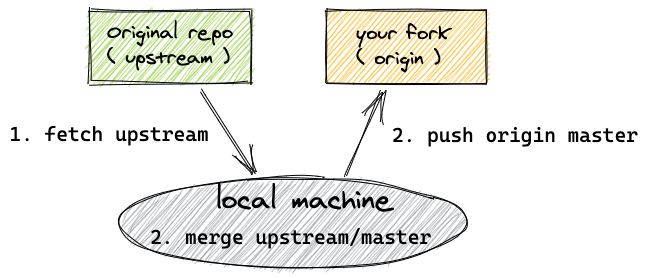
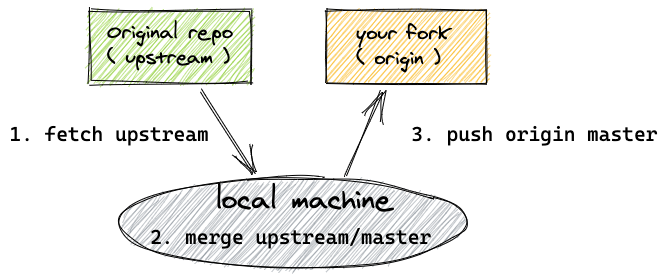
git sync fork post 2

Changed region(s): [[0.0617, 0.0288, 0.9877, 0.9784], [0.0, 0.4604, 0.0309, 0.4892]]

diff --git a/source/_posts/2020/git-sync-your-fork-with-original-repo.md b/source/_posts/2020/git-sync-your-fork-with-original-repo.md
@@ -16,7 +16,7 @@ featuredImage:
 
 ## Introduction
 
-When collaborating with github projects, normally, you do your changes in your fork and branch and then push these changes to your branch ( and should automatically point to original repo master when you create a PR ). Recently I started collaborating with a github project called [excalidraw](https://github.com/excalidraw/excalidraw) and they use that approach. Even if that sounds a easy thing to do, but specially new developers could struggle to get sync done.
+When collaborating with github projects, normally, you do your changes in your fork / branch and then push these changes to your origin ( and  when you create a PR it should automatically point to original repo master ). Recently I started collaborating with a github project called [excalidraw](https://github.com/excalidraw/excalidraw) and they use that approach. Even if that sounds a easy thing to do, it is not, specially new developers could struggle to get sync done for first time.
 
 ## Sync Fork with Original Repo
 
